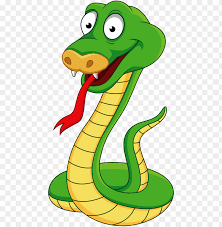
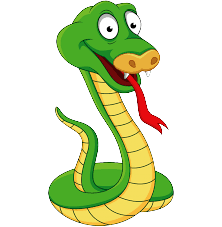
Updated Background

diff --git a/css/style.css b/css/style.css
@@ -33,36 +33,40 @@
 }
 
 #board{
-    /* background-image: url(/img/bg.jpg);
+    /* background-image: url(/img/board.jpg);
     background-repeat: no-repeat;
     display: flex;
     background-size:cover; */
-    background: linear-gradient(rgb(124, 240, 124), rgb(255, 255, 102));
+    background: linear-gradient(rgb(61, 255, 61), rgb(255, 255, 86));
     width: 90vmin;
     height: 92vmin;
-    border: 2px solid black;
+    border: 20px solid rgb(7, 83, 7);
     display: grid;
     grid-template-rows: repeat(18, 1fr);
     grid-template-columns: repeat(18, 1fr);
     border-radius: 10px;
+    margin-right: 250px;
     /* box-shadow: 5px 5px green; */
 }
 
 .head{
-    background: linear-gradient(rgb(255, 136, 136), rgb(228, 228, 129));
-    border: 2px solid rgb(34, 4, 34); 
+    background: greenyellow;
+    border: 2px solid rgb(255, 255, 255); 
     transform: scale(1.02);
-    border-radius: 9px;
+    border-radius: 20px;
 }
 
 .snake{
-    background-color: purple;
-    border: .25vmin solid white;
+    background-color: green;
+    border: .25vmin solid black;
     border-radius: 12px;
 }
 
 .food{
-    background: linear-gradient(red, purple);
-    border: .25vmin solid black;
-    border-radius: 8px;
+    background:linear-gradient(red, purple);
+    /* border: .25vmin solid black; */
+    border-radius: 50%;
+}
+img{
+    margin-bottom: 650px;
 }

diff --git a/index.html b/index.html
@@ -9,10 +9,12 @@
 </head>
 <body>
     <div class="body">
+        <img src="/img/snake.png" alt="">
         <div id="scoreBox">Score: 0</div>
         <div id="hiscoreBox">High Score: 0</div>
+        
         <div id="board"></div>
-        <!-- <img src="/img/snake.png" alt=""> -->
+        
     </div>
 </body>
 <script src="js/index.js"></script>

diff --git a/js/index.js b/js/index.js
@@ -4,7 +4,7 @@ const foodSound = new Audio('music/food.mp3');
 const gameOverSound = new Audio('music/gameover.mp3');
 const moveSound = new Audio('music/move.mp3');
 const musicSound = new Audio('music/music.mp3');
-let speed = 10;
+let speed = 5;
 let score = 0;
 let lastPaintTime = 0;
 let snakeArr = [
